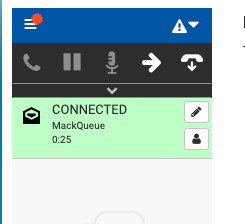
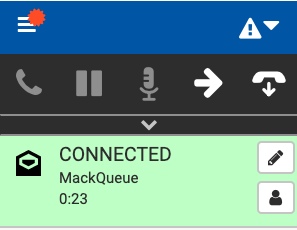
CWC-4920 improved images
improved images and fixed capitalization

diff --git a/src/SDK/sdk-rest-examples/readme.md b/src/SDK/sdk-rest-examples/readme.md
@@ -11,7 +11,7 @@ This repository contains examples for the Genesys Cloud for Salesforce SDK REST 
 
 Contains static methods to expose Genesys Cloud API.
 
-You can access the REST API through the REST class under the purecloud.SDK.REST namespace. The methods we expose are get, put, post, and delete. Currently, we are unable to support patch through the salesforce Apex API.
+You can access the REST API through the REST class under the purecloud.SDK.REST namespace. The methods we expose are get, put, post, and delete. Currently, we are unable to support patch through the Salesforce Apex API.
 
 ## Namespace
 
